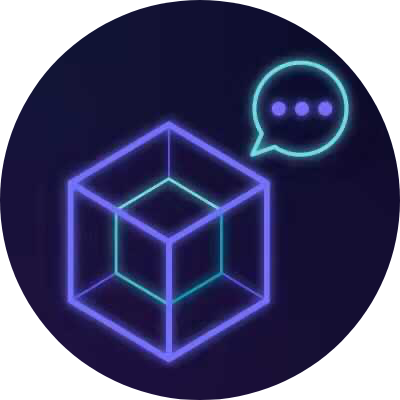
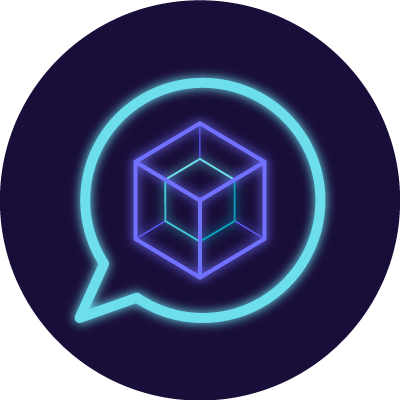
update default group pic + allow owners in admin only

diff --git a/screens/GroupScreen.tsx b/screens/GroupScreen.tsx
@@ -54,7 +54,10 @@ const MessageGroupScreen = ({
   }, [messages?.length]);
 
   const isAdmin = groupData?.admins.find((e) => wallet?.publicKey.equals(e));
-  const muted = groupData?.adminOnly && !isAdmin;
+  const muted =
+    groupData?.adminOnly &&
+    !isAdmin &&
+    !wallet?.publicKey.equals(groupData.owner);
 
   return (
     <SafeAreaView style={GlobalStyle.container}>

diff --git a/utils/connection.tsx b/utils/connection.tsx
@@ -27,7 +27,7 @@ export const ConnectionProvider = ({
   const connection = useMemo(
     () =>
       new Connection(url, {
-        commitment: "confirmed",
+        commitment: "processed",
       }),
     [url]
   );
